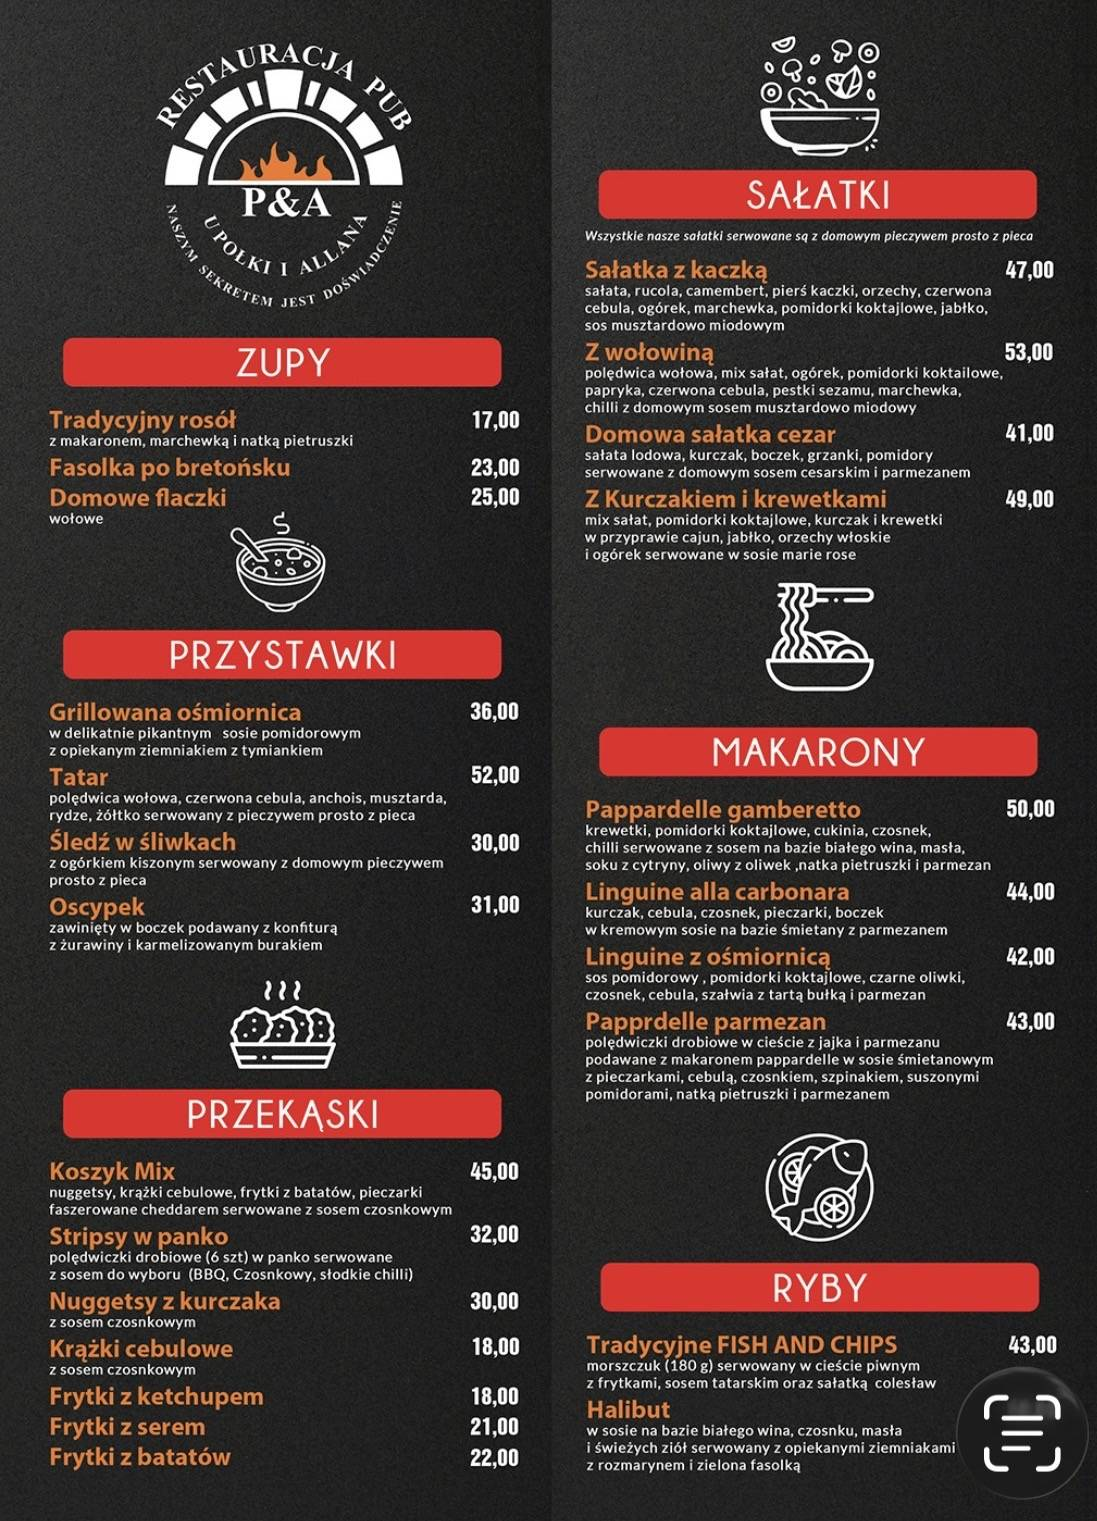
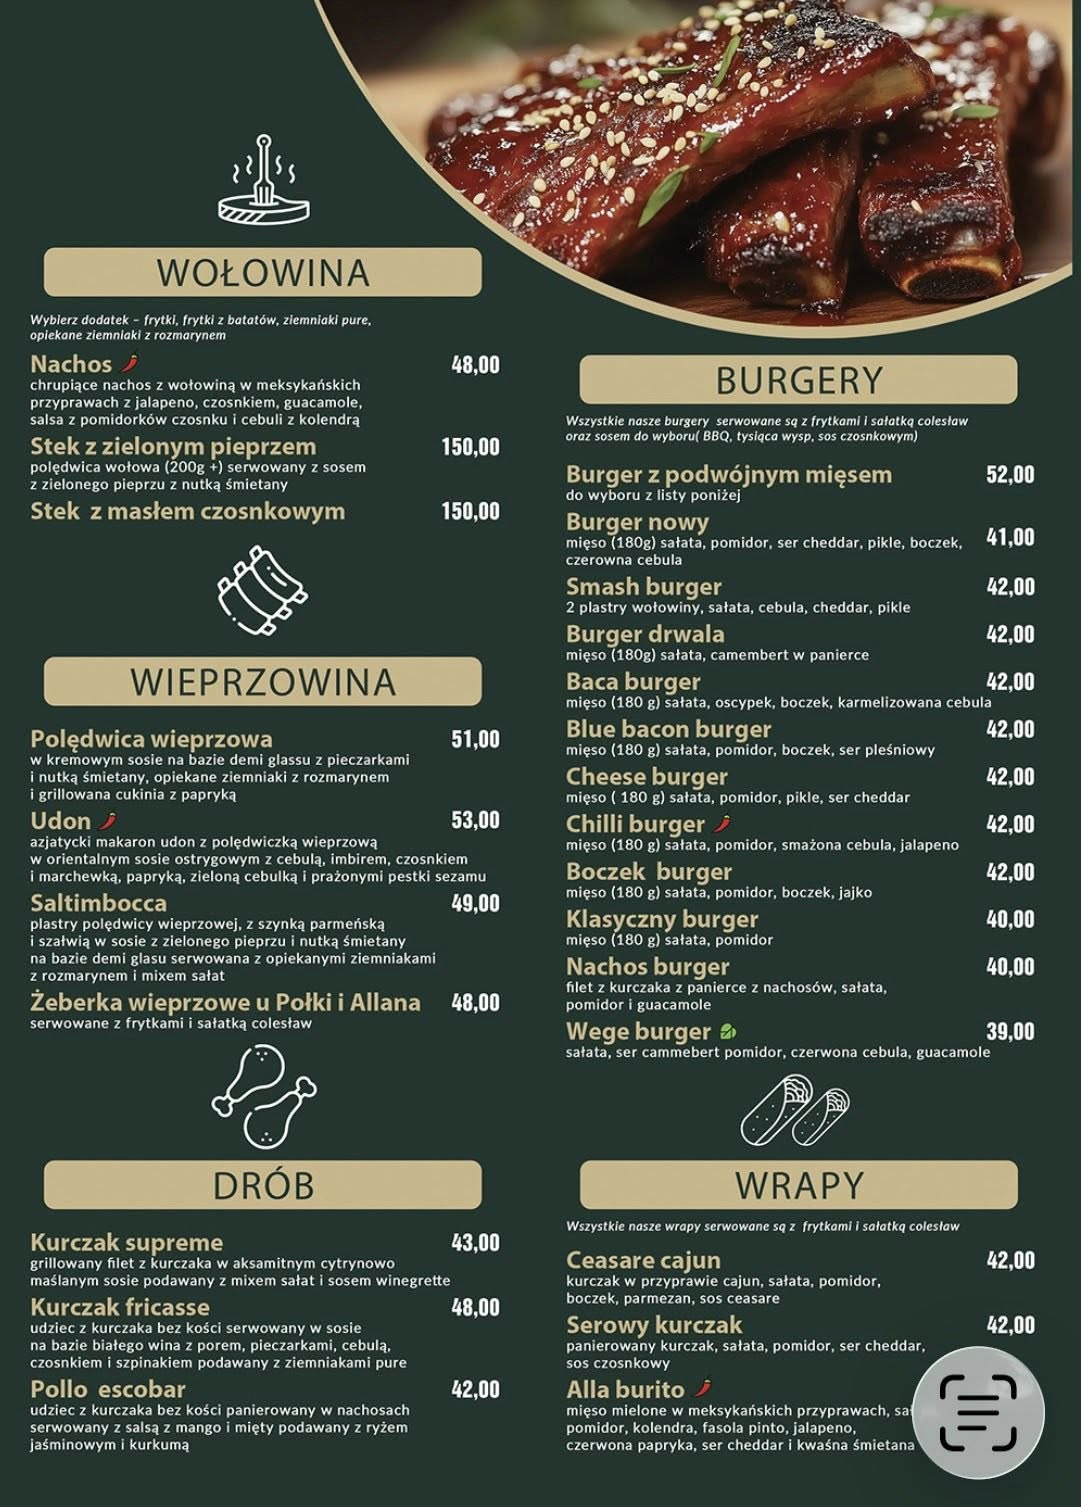
Dodano seed menu Polka i Allan

diff --git a/tlc_eats_app/management/commands/seed_menu_polka.py b/tlc_eats_app/management/commands/seed_menu_polka.py
@@ -1,0 +1,152 @@
+from django.core.management.base import BaseCommand
+from tlc_eats_app.models import Restaurant, Category, MenuItem
+
+MENU = {
+    'Zupy': [
+        ('Tradycyjny rosół', 19, 'z makaronem'),
+        ('Azja Udon', 23, 'azjatycka zupa z makaronem udon z karmazynem, zielona cebulka, jajko, sos rybny, sos sojowy, czosnek, imbir, chilli, azjatyckie grzyby'),
+        ('Francuska zupa Vichyssoise', 23, 'z pora i ziemniaka z nutką śmietany serwowana na zimno'),
+    ],
+    'Przystawki': [
+        ('Terrine', 30, 'zimna przystawka z pora serwowana z kremowym sosem na bazie śmietany i sera koziego'),
+        ('Mule', 42, 'serwowane w maślanym sosie na bazie masła i białego wina z czosnkiem, cebulą i natką pietruszki podane z domowym pieczywem prosto z pieca'),
+        ('Tatar', 52, 'polędwica wołowa, czerwona cebula, anchois, musztarda, rydze, żółtko serwowany z pieczywem prosto z pieca'),
+        ('Oscypek', 31, 'zawinięty w boczek podawany z konfiturą z żurawiny i mixem sałat'),
+    ],
+    'Przekąski': [
+        ('Koszyk Mix', 45, 'nuggetsy, krążki cebulowe, frytki z batatów, pieczarki faszerowane cheddarem serwowane z sosem czosnkowym'),
+        ('Frytki taco', 35, 'frytki z mięsem mielonym w meksykańskich przyprawach podane z paprykowym sosie i serem cheddar'),
+        ('Nuggetsy z kurczaka', 30, '10 szt. z sosem czosnkowym'),
+        ('Krążki cebulowe', 18, 'z sosem czosnkowym'),
+        ('Frytki z ketchupem', 18, ''),
+        ('Frytki z serem', 21, ''),
+        ('Frytki z batatów', 26, ''),
+    ],
+    'Sałatki': [
+        ('Buratta', 33, 'włoska buratta, bazylia, pomidor, pesto, oliwa z oliwek i sos balsamiczny'),
+        ('Z wołowiną', 53, 'polędwica wołowa, mix sałat, ogórek, pomidorki koktailowe, papryka, czerwona cebula, pestki sezamu, marchewka, chilli, sos musztardowo miodowy'),
+        ('Domowa sałatka cezar', 42, 'sałata lodowa, kurczak, boczek, grzanki, pomidory, sos cesarski i parmezanem'),
+        ('Grecka', 36, 'mix sałat, ogórek, pomidorki koktailowe, papryka, czerwona cebula, oliwki, ser feta podany z domowym sosem winegrette'),
+        ('Z Kurczakiem i krewetkami', 49, 'mix sałat, pomidorki koktajlowe, kurczak i krewetki w przyprawie cajun, jabłko, orzechy włoskie, ogórek, sos marie rose'),
+    ],
+    'Makarony': [
+        ('Pappardelle gamberetto', 50, 'krewetki, pomidorki koktajlowe, cukinia, czosnek, świeże chilli serwowane z sosem na bazie białego wina, masła, oliwy z oliwek, natka pietruszki i parmezan'),
+        ('Linguine alla carbonara', 48, 'kurczak, cebula, czosnek, pieczarki, boczek w kremowym sosie na bazie śmietany z parmezanem'),
+        ('Linguine aglio e olio', 42, 'oliwa z oliwek, czosnek, świeże chilli, natka pietruszki i parmezan'),
+        ('Rigatoni al forno', 50, 'polędwiczka wieprzowa, szpinak, mascarpone, sos pomidorowy, czosnek, cebula, nduja zapiekane z parmezanem, serwowane w gorącym półmisku prosto z pieca'),
+    ],
+    'Ryby': [
+        ('Tradycyjne FISH AND CHIPS', 43, 'morszczuk (180g) serwowany w cieście piwnym z frytkami, sosem tatarskim oraz sałatką colesław'),
+        ('Karmazyn', 48, 'z patelni serwowany z salsą z mango i mięty podawany z ryżem jaśminowym z kurkumą'),
+        ('Stek z kałamarnicy', 48, 'podawany w sosie na bazie białego wina, masła, soku z cytryny, czosnku i świeżej natki pietruszki serwowany z mixem z rukoli i sezonowych warzyw'),
+    ],
+    'Pizza 30cm': [
+        ('Maryśka', 32, 'sos pomidorowy, mozzarella, oliwa z oliwek, oregano'),
+        ('Biała Kula', 41, 'sos pomidorowy, mozzarella, burrata, świeże pomidory, pesto bazyliowe, oregano'),
+        ('Skurczybyk', 42, 'sos pomidorowy, mozzarella, nduja, mascarpone, czerwona cebula, spianata piccante, oregano'),
+        ('Crunchy chicken', 39, 'sos pomidorowy, mozzarella, czerwona cebula, panierowane kawałki kurczaka, świeże pomidorki, oregano'),
+        ('Fiflok', 38, 'sos pomidorowy, mozzarella, salami pepperoni, czerwona cebula, oliwki, oregano'),
+        ('Americana', 36, 'sos pomidorowy, mozzarella, salami pepperoni, oregano'),
+        ('Śniegowy kurczok', 38, 'mozzarella, boczek, kurczak, pieczarki, cebula, parmezan, oregano'),
+        ('Diavola', 38, 'sos pomidorowy, mozzarella, spianata piccante, oregano'),
+        ('Szyneczka', 34, 'sos pomidorowy, mozzarella, szynka, oregano'),
+        ('Grzybowa szynka', 37, 'sos pomidorowy, mozzarella, szynka, pieczarki, oregano'),
+        ('Parma', 44, 'sos pomidorowy, mozzarella, szynka parmeńska, rucola, oliwa z oliwek, parmezan, oregano'),
+        ('Wydydany dyd', 42, 'sos BBQ, mozzarella, wołowina z pieca, cebula, kurczak, boczek, oregano'),
+        ('Quatro formaggi', 40, 'mozzarella, gorgonzola, parmezan, camambert, oregano'),
+        ('Dunder świśnie', 41, 'sos pomidorowy, mozzarella, kurczak, boczek, pieczona papryka, płatki chilli, oregano'),
+        ('Szybki lopez', 40, 'sos pomidorowy, mozzarella, wołowina z pieca, karmelizowana cebula, parmezan, oregano'),
+        ('Kulawy Joe', 40, 'sos pomidorowy, mozzarella, salami pepperoni, cebula, kukurydza, pieczona papryka, oregano'),
+        ('Diobeł tasmański', 44, 'sos pomidorowy, mozzarella, salami pepperoni, wołowina z pieca, pieczona papryka, jalapeno, płatki chilli, rucola, oregano'),
+        ('Suszony pomidor', 41, 'sos pomidorowy, mozzarella, boczek, suszone pomidory, rucola, sos cesarski, oregano'),
+        ('Capriciosa', 39, 'sos pomidorowy, mozzarella, szynka, pieczarki, oliwki, oregano'),
+        ('Krejzi wege', 37, 'sos pomidorowy, mozzarella, pieczarki, cebula, pieczona papryka, kukurydza, oregano'),
+        ('Łoscypek', 41, 'sos żurawinowy, mozzarella, oscypek, boczek, kurczak, oregano'),
+        ('Kreweta', 49, 'sos pomidorowy, mozzarella, krewetki, czosnek, oliwa z oliwek, chilli, pomidory koktajlowe, świeża bazylia, oregano'),
+    ],
+    'Dodatki do pizzy': [
+        ('Sos czosnkowy / ketchup', 3, ''),
+        ('Mięso / wędliny', 8, ''),
+        ('Warzywa', 4, ''),
+        ('Sery', 8, ''),
+        ('Krewetki', 26, ''),
+        ('Opakowanie na wynos', 2, ''),
+    ],
+    'Dodatki': [
+        ('Mix sałat z winegretem', 14, ''),
+        ('Opiekane ziemniaki z rozmarynem', 12, ''),
+        ('Pieczywo', 7, ''),
+        ('Colesław', 8, ''),
+    ],
+    'Wołowina': [
+        ('Nachos', 48, 'chrupiące nachos z wołowiną w meksykańskich przyprawach z jalapeno, czosnkiem, guacamole, salsa z pomidorków czosnku i cebuli z kolendrą'),
+        ('Stek z zielonym pieprzem', 150, 'polędwica wołowa (200g+) serwowany z sosem z zielonego pieprzu z nutką śmietany'),
+        ('Stek z masłem czosnkowym', 150, 'z zielonego pieprzu z nutką śmietany'),
+    ],
+    'Wieprzowina': [
+        ('Polędwica wieprzowa', 51, 'w kremowym sosie na bazie demi glassu z pieczarkami i nutką śmietany, opiekane ziemniaki z rozmarynem i grillowana cukinia z papryką'),
+        ('Udon', 53, 'azjatycki makaron udon z polędwiczką wieprzową w orientalnym sosie ostrygowym z cebulą, imbirem, czosnkiem i marchewką, papryką, zieloną cebulką i prażonymi pestki sezamu'),
+        ('Saltimbocca', 49, 'plastry polędwicy wieprzowej z szynką parmeńską i szałwią w sosie z zielonego pieprzu i nutką śmietany na bazie demi glasu serwowana z opiekanymi ziemniakami z rozmarynem i mixem sałat'),
+        ('Żeberka wieprzowe u Połki i Allana', 48, 'serwowane z frytkami i sałatką colesław'),
+    ],
+    'Drób': [
+        ('Kurczak supreme', 43, 'grillowany filet z kurczaka w aksamitnym cytrynowo maślanym sosie podawany z mixem sałat i sosem winegrette'),
+        ('Kurczak fricasse', 48, 'udziec z kurczaka bez kości serwowany w sosie na bazie białego wina z porem, pieczarkami, cebulą, czosnkiem i szpinakiem podawany z ziemniakami pure'),
+        ('Pollo escobar', 42, 'udziec z kurczaka bez kości panierowany w nachosach serwowany z salsą z mango i mięty podawany z ryżem jaśminowym i kurkumą'),
+    ],
+    'Burgery': [
+        ('Burger z podwójnym mięsem', 52, 'do wyboru z listy poniżej'),
+        ('Burger nowy', 41, 'mięso (180g), sałata, pomidor, ser cheddar, pikle, boczek, czerwona cebula'),
+        ('Smash burger', 42, '2 plastry wołowiny, sałata, cebula, cheddar, pikle'),
+        ('Burger drwala', 42, 'mięso (180g), sałata, camembert w panierce'),
+        ('Baca burger', 42, 'mięso (180g), sałata, oscypek, boczek, karmelizowana cebula'),
+        ('Blue bacon burger', 42, 'mięso (180g), sałata, pomidor, boczek, ser pleśniowy'),
+        ('Cheese burger', 42, 'mięso (180g), sałata, pomidor, pikle, ser cheddar'),
+        ('Chilli burger', 42, 'mięso (180g), sałata, pomidor, smażona cebula, jalapeno'),
+        ('Boczek burger', 42, 'mięso (180g), sałata, pomidor, boczek, jajko'),
+        ('Klasyczny burger', 40, 'mięso (180g), sałata, pomidor'),
+        ('Nachos burger', 40, 'filet z kurczaka z panierce z nachosów, sałata, pomidor i guacamole'),
+        ('Wege burger', 39, 'sałata, ser cammebert, pomidor, czerwona cebula, guacamole'),
+    ],
+    'Wrapy': [
+        ('Ceasare cajun', 42, 'kurczak w przyprawie cajun, sałata, pomidor, boczek, parmezan, sos ceasare'),
+        ('Serowy kurczak', 42, 'panierowany kurczak, sałata, pomidor, ser cheddar, sos czosnkowy'),
+        ('Alla burito', 42, 'mięso mielone w meksykańskich przyprawach, sałata, pomidor, kolendra, fasola pinto, jalapeno, czerwona papryka, ser cheddar i kwaśna śmietana'),
+    ],
+    'Desery': [
+        ('Czekoladowy fondant', 30, 'ciasto czekoladowe serwowane na ciepło z lodami waniliowymi i bitą śmietaną'),
+        ('Truskawkowe tiramisu', 0, 'inna odmiana włoskiego deseru, w naszym wydaniu z truskawkami'),
+    ],
+}
+
+class Command(BaseCommand):
+    help = 'Seed menu Połka i Allan'
+
+    def handle(self, *args, **kwargs):
+        try:
+            restaurant = Restaurant.objects.get(name='Połka i Allan')
+        except Restaurant.DoesNotExist:
+            self.stdout.write(self.style.ERROR('Nie znaleziono Połka i Allan w bazie!'))
+            return
+
+        Category.objects.filter(restaurant=restaurant).delete()
+        self.stdout.write('Usunięto stare dane.')
+
+        for category_name, items in MENU.items():
+            category, _ = Category.objects.get_or_create(
+                name=category_name,
+                restaurant=restaurant
+            )
+            self.stdout.write(f'\n[Kategoria] {category_name}')
+
+            for name, price, ingredients in items:
+                MenuItem.objects.create(
+                    restaurant=restaurant,
+                    category=category,
+                    name=name,
+                    price=price,
+                    ingredients=ingredients,
+                )
+                self.stdout.write(self.style.SUCCESS(f'  Dodano: {name} — {price} zł'))
+
+        self.stdout.write(self.style.SUCCESS('\nGotowe!'))